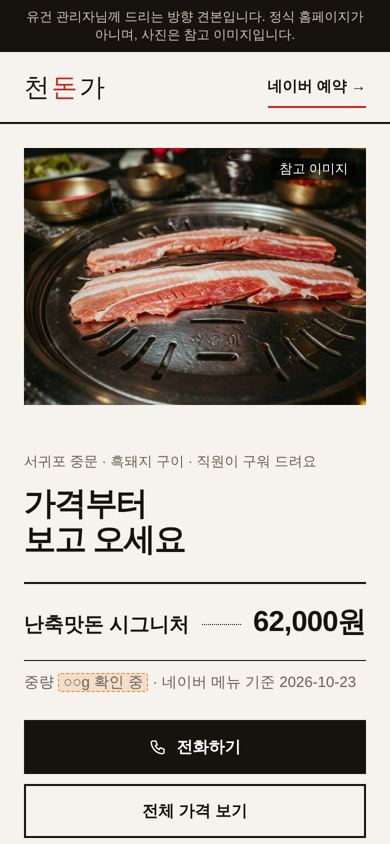
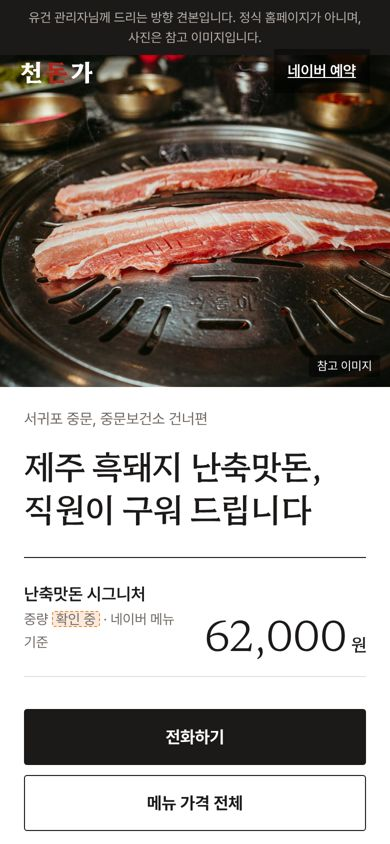
천돈가: 방향 견본 2차(세로 간판·고기와 가격·둘러앉는 한 상), 글꼴 스크린샷 규칙
Claude-Session: https://claude.ai/code/session_01VzijVx3yV9QaKviLbpT7oE

diff --git a/concepts/b/index.html b/concepts/b/index.html
@@ -1,51 +1,62 @@
 <!doctype html>
-<html lang="ko"><head><meta name="robots" content="noindex, nofollow"><meta charset="utf-8"><title>천돈가 · 견본 B 가격표가 첫 화면</title>
-<meta name="description" content="천돈가 홈페이지 방향 견본(첫 화면). 유건 관리자님께 드리는 예시.">
+<html lang="ko"><head><meta name="robots" content="noindex, nofollow"><meta charset="utf-8"><title>천돈가 · 견본 B 고기와 가격</title>
+<meta name="description" content="천돈가 홈페이지 방향 견본">
 
 <link rel="preconnect" href="https://fonts.googleapis.com"><link rel="preconnect" href="https://fonts.gstatic.com" crossorigin="">
-<link rel="stylesheet" href="https://fonts.googleapis.com/css2?family=Black+Han+Sans&amp;family=IBM+Plex+Sans+KR:wght@400;500;700&amp;display=swap">
-
-<!-- 견본 B (2026-10-23 오후): 가격표가 주인공 — 밝은 바탕, 큰 숫자, 사진은 정사각 한 장. 섹션: 전체 가격표. 핵심 과제(바가지 걱정·가격 공개)에 맞춤 -->
-<style>*{box-sizing:border-box}html{-webkit-text-size-adjust:100%}body{margin:0;word-break:keep-all;overflow-wrap:break-word;-webkit-font-smoothing:antialiased}img{display:block;max-width:100%;height:auto}a{color:inherit}h1,h2,h3,p{margin:0}
-.wrap{max-width:1200px;margin:0 auto;padding:0 24px}.demo{font-size:.8125rem;text-align:center;padding:8px 16px}
-.ref{position:absolute;right:10px;top:10px;z-index:3;font-size:.8125rem;color:#fff;background:rgba(0,0,0,.55);padding:2px 8px;border-radius:2px}
-.blank{display:inline-block;background:rgba(240,138,60,.2);outline:1.5px dashed #E8892F;outline-offset:-1px;padding:0 .35em;border-radius:3px}
-.btn{display:inline-flex;align-items:center;justify-content:center;gap:10px;min-height:54px;padding:0 26px;font-weight:700;text-decoration:none;font-size:1rem}
-.btn svg{width:18px;height:18px;fill:none;stroke:currentColor;stroke-width:1.8;stroke-linecap:round;stroke-linejoin:round}
-
-body{background:#F6F3EE;color:#16130F;font-family:"IBM Plex Sans KR",sans-serif}
-.demo{background:#16130F;color:#C9C1B5}
-.mark{font-family:"Black Han Sans";letter-spacing:.08em;font-size:1.6rem;text-decoration:none}.mark i{font-style:normal;color:#C42820}
-header .wrap{display:flex;justify-content:space-between;align-items:center;min-height:72px;border-bottom:2px solid #16130F}
-header a.bk{font-weight:700;font-size:.9375rem;text-decoration:none;border-bottom:2px solid #C42820;padding:10px 0}
-.hero .wrap{display:grid;grid-template-columns:1.1fr .9fr;gap:48px;padding-top:48px;padding-bottom:56px;align-items:center}
-.k{font-size:.875rem;font-weight:500;color:#6A6157}
-.hero h1{font-size:clamp(2rem,5vw,3.6rem);font-weight:700;letter-spacing:-.04em;line-height:1.15;margin:14px 0 24px}
-.price{display:flex;align-items:baseline;gap:12px;border-top:2px solid #16130F;border-bottom:1px solid #16130F;padding:18px 0}
-.price .n{font-size:1.25rem;font-weight:700}.price .d{flex:1;border-bottom:1px dotted #16130F;transform:translateY(-6px)}
-.price .p{font-size:clamp(1.8rem,4vw,2.6rem);font-weight:700;font-variant-numeric:tabular-nums;letter-spacing:-.02em}
-.sub{margin-top:12px;color:#6A6157;font-size:.9375rem}
-.btns{display:flex;flex-wrap:wrap;gap:10px;margin-top:28px}.b1{background:#16130F;color:#fff}.b2{border:2px solid #16130F}
-.tel{margin-top:12px;font-size:.9375rem}
-.hero figure{margin:0;position:relative}.hero figure img{aspect-ratio:1;object-fit:cover;width:100%}
-.sec{padding:72px 0 96px;background:#fff}.sec h2{font-size:clamp(1.5rem,3vw,2.2rem);letter-spacing:-.03em;margin:10px 0 28px}
-table{width:100%;border-collapse:collapse;font-size:1.0625rem}td{padding:16px 0;border-bottom:1px solid #DDD5CA}td.r{text-align:right;font-weight:700;font-variant-numeric:tabular-nums;white-space:nowrap}td small{display:block;color:#6A6157;font-size:.875rem}
-tr:first-child td{border-top:2px solid #16130F}
-.src{font-size:.8125rem;color:#6A6157;margin-top:14px}
-@media(max-width:760px){.hero .wrap{grid-template-columns:1fr;padding-top:24px}.hero figure{order:-1}.hero figure img{aspect-ratio:4/3}.btn{flex:1 1 100%}}
+<link rel="stylesheet" href="https://fonts.googleapis.com/css2?family=Hahmlet:wght@300;500;700&amp;display=swap">
+<link rel="stylesheet" href="https://cdn.jsdelivr.net/gh/orioncactus/pretendard@v1.3.9/dist/web/variable/pretendardvariable-dynamic-subset.min.css">
+<!-- 견본 B2 (2026-10-23 밤): 흰 바탕, 고기 사진이 반, Hahmlet(현대 명조) 큰 숫자로 가격. 크림·점선·화살표 없이. -->
+<style>*{box-sizing:border-box}html{-webkit-text-size-adjust:100%}body{margin:0;word-break:keep-all;overflow-wrap:break-word;-webkit-font-smoothing:antialiased;text-rendering:optimizeLegibility}
+img{display:block;max-width:100%;height:auto}a{color:inherit}h1,h2,h3,p,dl,dd{margin:0}
+.demo{font-size:.8125rem;line-height:1.5;text-align:center;padding:8px 16px}
+.ref{position:absolute;right:10px;bottom:10px;z-index:3;font-size:.75rem;line-height:1;color:#fff;background:rgba(0,0,0,.5);padding:5px 8px;border-radius:2px;font-family:"Pretendard Variable",Pretendard,sans-serif}
+.blank{background:rgba(240,138,60,.18);outline:1.5px dashed #E8892F;outline-offset:-1px;padding:0 .3em;border-radius:3px}
+:focus-visible{outline:2px solid currentColor;outline-offset:3px}
+:root{--ink:#1C1A19;--dim:#6F6863;--line:#E4E0DC;--red:#B4231B}
+body{background:#fff;color:var(--ink);font-family:"Pretendard Variable",Pretendard,sans-serif;font-size:17px;line-height:1.65}
+.demo{background:#1C1A19;color:#B9B2AB}
+.hero{display:grid;grid-template-columns:1.1fr 1fr;min-height:calc(100svh - 37px)}
+.photo{position:relative;overflow:hidden;background:#222}.photo img{position:absolute;inset:0;width:100%;height:100%;object-fit:cover}
+.txt{padding:40px clamp(28px,5vw,88px) 56px;display:flex;flex-direction:column}
+.bar{display:flex;justify-content:space-between;align-items:center}
+.logo{font-family:"Hahmlet",serif;font-weight:700;font-size:1.5rem;letter-spacing:.12em;text-decoration:none}.logo span{color:var(--red)}
+.bar a.b{font-weight:600;font-size:.9375rem;min-height:44px;display:inline-flex;align-items:center}
+.main{margin:auto 0}
+.where{font-size:.9375rem;color:var(--dim)}
+h1{font-family:"Hahmlet",serif;font-weight:500;font-size:clamp(2.1rem,3.6vw,3.3rem);line-height:1.28;letter-spacing:-.03em;margin:18px 0 44px}
+.price{display:grid;grid-template-columns:1fr auto;align-items:end;gap:4px 16px;padding:22px 0;border-top:1px solid var(--ink);border-bottom:1px solid var(--line)}
+.price .n{font-weight:600}.price .n small{display:block;font-weight:400;color:var(--dim);font-size:.875rem}
+.price .p{font-family:"Hahmlet",serif;font-weight:300;font-size:clamp(2.6rem,4.6vw,3.8rem);line-height:1;letter-spacing:-.02em;font-variant-numeric:lining-nums}
+.price .p em{font-style:normal;font-size:.42em;margin-left:4px;font-weight:500}
+.act{display:flex;flex-wrap:wrap;gap:10px;margin-top:32px}
+.act a{display:inline-flex;align-items:center;justify-content:center;min-height:56px;padding:0 28px;font-weight:700;text-decoration:none;border-radius:3px}
+.call{background:var(--ink);color:#fff}.see{border:1px solid var(--ink)}
+.num{margin-top:14px;font-size:.9375rem;color:var(--dim)}.num b{color:var(--ink);font-variant-numeric:tabular-nums}
+.menu{max-width:1080px;margin:0 auto;padding:112px clamp(24px,5vw,64px) 120px}
+.menu h2{font-family:"Hahmlet",serif;font-weight:500;font-size:clamp(1.6rem,2.8vw,2.3rem);letter-spacing:-.02em;margin-bottom:12px}
+.menu .lead{color:var(--dim);margin-bottom:48px}
+.menu dl{display:grid;grid-template-columns:1fr auto;border-top:1px solid var(--ink)}
+.menu dt,.menu dd{padding:26px 0;border-bottom:1px solid var(--line)}
+.menu dt{font-size:1.1875rem;font-weight:600}.menu dt small{display:block;font-size:.875rem;font-weight:400;color:var(--dim);margin-top:2px}
+.menu dd{font-family:"Hahmlet",serif;font-size:1.75rem;font-weight:300;text-align:right;font-variant-numeric:lining-nums;white-space:nowrap}
+.menu p.src{margin-top:20px;font-size:.875rem;color:var(--dim)}
+@media(max-width:820px){.hero{grid-template-columns:1fr;grid-template-rows:auto auto}.photo{aspect-ratio:4/3.4;order:2}.txt{order:1;padding:20px 24px 36px}.photo{order:0}
+ .bar{position:absolute;left:0;right:0;top:37px;padding:12px 20px;color:#fff;z-index:4}.bar a.b{background:rgba(0,0,0,.45);padding:0 14px}
+ .main{margin:0}h1{margin:12px 0 28px}.act a{flex:1 1 100%}.menu{padding:80px 24px}}
 </style>
 <meta name="viewport" content="width=device-width, initial-scale=1, viewport-fit=cover"></head><body><div class="demo" role="note">유건 관리자님께 드리는 방향 견본입니다. 정식 홈페이지가 아니며, 사진은 참고 이미지입니다.</div>
-<header><div class="wrap"><a class="mark" href="#">천<i>돈</i>가</a><a class="bk" href="https://naver.me/xDJuE5hg">네이버 예약 →</a></div></header>
-<section class="hero"><div class="wrap"><div><p class="k">서귀포 중문 · 흑돼지 구이 · 직원이 구워 드려요</p>
-<h1>가격부터<br>보고 오세요</h1>
-<div class="price"><span class="n">난축맛돈 시그니처</span><span class="d"></span><span class="p">62,000원</span></div>
-<p class="sub">중량 <span class="blank">○○g 확인 중</span> · 네이버 메뉴 기준 2026-10-23</p>
-<div class="btns"><a class="btn b1" href="tel:064-739-0775"><svg viewBox="0 0 24 24" aria-hidden="true"><path d="M5 4h4l2 5-2.5 1.5a11 11 0 0 0 5 5L15 13l5 2v4a2 2 0 0 1-2 2A16 16 0 0 1 3 6a2 2 0 0 1 2-2"></path></svg>전화하기</a><a class="btn b2" href="#menu">전체 가격 보기</a></div>
-<p class="tel">064-739-0775 · 천제연로 280 (중문보건소 건너편)</p></div>
-<figure><img src="img/c-b_hero.jpg" width="1400" height="1050" alt="불판 위 생 삼겹살 (참고 이미지)"><span class="ref">참고 이미지</span></figure></div></section>
-<section class="sec" id="menu"><div class="wrap"><p class="k">메뉴판</p><h2>숨기지 않는 가격</h2>
-<table><tbody><tr><td>난축맛돈 시그니처<small>제주토종흑돼지 · 중량 <span class="blank">확인 중</span></small></td><td class="r">62,000원</td></tr>
-<tr><td>제주흑돼지 YBD<small>500g</small></td><td class="r">55,000원</td></tr>
-<tr><td>솔지살<small>중량 <span class="blank">확인 중</span></small></td><td class="r">24,000원</td></tr></tbody></table>
-<p class="src">네이버 플레이스 메뉴 · 2026-10-23 확인 · <a href="https://naver.me/xDJuE5hg">전체 메뉴</a></p></div></section>
+<section class="hero">
+<div class="photo"><img src="img/c-b_hero.jpg" width="1400" height="1050" alt="불판 위 생 삼겹살 (참고 이미지)"><span class="ref">참고 이미지</span></div>
+<div class="txt"><div class="bar"><a class="logo" href="#">천<span>돈</span>가</a><a class="b" href="https://naver.me/xDJuE5hg">네이버 예약</a></div>
+<div class="main"><p class="where">서귀포 중문, 중문보건소 건너편</p>
+<h1>제주 흑돼지 난축맛돈,<br>직원이 구워 드립니다</h1>
+<div class="price"><span class="n">난축맛돈 시그니처<small>중량 <span class="blank">확인 중</span> · 네이버 메뉴 기준</small></span><span class="p">62,000<em>원</em></span></div>
+<div class="act"><a class="call" href="tel:064-739-0775">전화하기</a><a class="see" href="#menu">메뉴 가격 전체</a></div>
+<p class="num">전화 <b>064-739-0775</b></p></div></div>
+</section>
+<section class="menu" id="menu"><h2>메뉴 가격</h2><p class="lead">가게에서 내는 가격 그대로 적었습니다.</p>
+<dl><dt>난축맛돈 시그니처<small>제주토종흑돼지 · 중량 <span class="blank">확인 중</span></small></dt><dd>62,000원</dd>
+<dt>제주흑돼지 YBD<small>500g</small></dt><dd>55,000원</dd>
+<dt>솔지살<small>중량 <span class="blank">확인 중</span></small></dt><dd>24,000원</dd></dl>
+<p class="src">네이버 플레이스 메뉴, 2026년 10월 23일 확인. <a href="https://naver.me/xDJuE5hg">전체 메뉴 보기</a></p></section>
 </body></html>

diff --git a/concepts/a/index.html b/concepts/a/index.html
@@ -1,51 +1,60 @@
 <!doctype html>
-<html lang="ko"><head><meta name="robots" content="noindex, nofollow"><meta charset="utf-8"><title>천돈가 · 견본 A 밤의 간판</title>
-<meta name="description" content="천돈가 홈페이지 방향 견본(첫 화면). 유건 관리자님께 드리는 예시.">
+<html lang="ko"><head><meta name="robots" content="noindex, nofollow"><meta charset="utf-8"><title>천돈가 · 견본 A 세로 간판</title>
+<meta name="description" content="천돈가 홈페이지 방향 견본">
 
 <link rel="preconnect" href="https://fonts.googleapis.com"><link rel="preconnect" href="https://fonts.gstatic.com" crossorigin="">
-<link rel="stylesheet" href="https://fonts.googleapis.com/css2?family=Black+Han+Sans&amp;display=swap"><link rel="stylesheet" href="https://cdn.jsdelivr.net/gh/orioncactus/pretendard@v1.3.9/dist/web/variable/pretendardvariable-dynamic-subset.min.css">
-
-<!-- 견본 A (2026-10-23 오후): 간판 그대로 — 검정·흰·빨간 "돈", 불 사진. 섹션: 손님이 고른 말 -->
-<style>*{box-sizing:border-box}html{-webkit-text-size-adjust:100%}body{margin:0;word-break:keep-all;overflow-wrap:break-word;-webkit-font-smoothing:antialiased}img{display:block;max-width:100%;height:auto}a{color:inherit}h1,h2,h3,p{margin:0}
-.wrap{max-width:1200px;margin:0 auto;padding:0 24px}.demo{font-size:.8125rem;text-align:center;padding:8px 16px}
-.ref{position:absolute;right:10px;top:10px;z-index:3;font-size:.8125rem;color:#fff;background:rgba(0,0,0,.55);padding:2px 8px;border-radius:2px}
-.blank{display:inline-block;background:rgba(240,138,60,.2);outline:1.5px dashed #E8892F;outline-offset:-1px;padding:0 .35em;border-radius:3px}
-.btn{display:inline-flex;align-items:center;justify-content:center;gap:10px;min-height:54px;padding:0 26px;font-weight:700;text-decoration:none;font-size:1rem}
-.btn svg{width:18px;height:18px;fill:none;stroke:currentColor;stroke-width:1.8;stroke-linecap:round;stroke-linejoin:round}
-
-body{background:#0B0908;color:#F4EFE8;font-family:"Pretendard Variable",Pretendard,sans-serif}
-.demo{background:#000;color:#9A9087}
-.mark{font-family:"Black Han Sans";letter-spacing:.08em;font-size:1.6rem;text-decoration:none}.mark i{font-style:normal;color:#E3342B}
-header{position:absolute;left:0;right:0;z-index:4}header .wrap{display:flex;justify-content:space-between;align-items:center;min-height:72px}
-header a.bk{border:1px solid rgba(255,255,255,.5);padding:10px 16px;font-size:.9375rem;font-weight:600;text-decoration:none}
-.hero{position:relative;min-height:100svh;display:flex;align-items:flex-end;overflow:hidden}
-.hero img{position:absolute;inset:0;width:100%;height:100%;object-fit:cover}
-.hero::after{content:"";position:absolute;inset:0;background:linear-gradient(180deg,rgba(11,9,8,.6),rgba(11,9,8,0) 25%,rgba(11,9,8,.2) 55%,#0B0908 96%)}
-.hero .wrap{position:relative;z-index:2;padding-bottom:64px;width:100%}
-.sign{display:inline-block;border:2px solid #F4EFE8;padding:10px 18px 6px;font-family:"Black Han Sans";font-size:clamp(2.6rem,9vw,5rem);letter-spacing:.12em;line-height:1}
-.sign i{font-style:normal;color:#E3342B}
-.hero h1{font-size:clamp(1.6rem,4vw,2.6rem);font-weight:700;letter-spacing:-.03em;margin:22px 0 10px;line-height:1.3}
-.hero p{color:#CFC6BB}
-.btns{display:flex;flex-wrap:wrap;gap:10px;margin-top:28px}.b1{background:#C42820;color:#fff}.b2{border:1px solid rgba(255,255,255,.5);color:#fff}
-.tel{margin-top:14px;font-size:.9375rem;color:#CFC6BB}.tel b{color:#fff}
-.sec{padding:88px 0}.sec h2{font-size:clamp(1.6rem,3.4vw,2.4rem);letter-spacing:-.03em;margin:12px 0 32px}
-.k{font-size:.8125rem;color:#E9A65B;font-weight:600;letter-spacing:.06em}
-.grid{display:grid;grid-template-columns:1.1fr 1fr;gap:48px;align-items:center}
-.grid figure{margin:0;position:relative}.grid figure img{aspect-ratio:4/3;object-fit:cover;width:100%}
-ul.bars{list-style:none;margin:0;padding:0}ul.bars li{display:flex;justify-content:space-between;align-items:baseline;padding:16px 0;border-bottom:1px solid rgba(244,239,232,.14);font-size:1.125rem;font-weight:600}
-ul.bars b{font-size:1.5rem;color:#E9A65B;font-variant-numeric:tabular-nums}
-.src{font-size:.8125rem;color:#9A9087;margin-top:14px}
-@media(max-width:760px){.grid{grid-template-columns:1fr}.hero{min-height:92svh}.btn{flex:1 1 100%}}
+<link rel="stylesheet" href="https://fonts.googleapis.com/css2?family=Black+Han+Sans&amp;display=swap">
+<link rel="stylesheet" href="https://cdn.jsdelivr.net/gh/orioncactus/pretendard@v1.3.9/dist/web/variable/pretendardvariable-dynamic-subset.min.css">
+<!-- 견본 A2 (2026-10-23 밤, "글씨·배치가 싸 보임" 반영): 세로 간판을 그대로 레이아웃으로. Black Han Sans(간판 글씨) + Pretendard. 빨강은 실제 간판의 "돈" 한 글자만. -->
+<style>*{box-sizing:border-box}html{-webkit-text-size-adjust:100%}body{margin:0;word-break:keep-all;overflow-wrap:break-word;-webkit-font-smoothing:antialiased;text-rendering:optimizeLegibility}
+img{display:block;max-width:100%;height:auto}a{color:inherit}h1,h2,h3,p,dl,dd{margin:0}
+.demo{font-size:.8125rem;line-height:1.5;text-align:center;padding:8px 16px}
+.ref{position:absolute;right:10px;bottom:10px;z-index:3;font-size:.75rem;line-height:1;color:#fff;background:rgba(0,0,0,.5);padding:5px 8px;border-radius:2px;font-family:"Pretendard Variable",Pretendard,sans-serif}
+.blank{background:rgba(240,138,60,.18);outline:1.5px dashed #E8892F;outline-offset:-1px;padding:0 .3em;border-radius:3px}
+:focus-visible{outline:2px solid currentColor;outline-offset:3px}
+:root{--ink:#F7F3EC;--dim:#B9AFA3;--bg:#000;--red:#E0261C}
+body{background:var(--bg);color:var(--ink);font-family:"Pretendard Variable",Pretendard,sans-serif;font-size:17px;line-height:1.65}
+.demo{color:#8C8379;border-bottom:1px solid #1E1B19}
+.hero{display:grid;grid-template-columns:auto 1.25fr 1fr;min-height:calc(100svh - 37px)}
+.sign{writing-mode:vertical-rl;text-orientation:upright;font-family:"Black Han Sans",sans-serif;font-size:clamp(5rem,13vh,9.5rem);line-height:1;letter-spacing:.06em;padding:40px clamp(20px,3vw,48px);border-right:1px solid #2A2522;display:flex;align-items:center;justify-content:center;margin:0}
+.sign span{color:var(--red)}
+.photo{position:relative;overflow:hidden}.photo img{position:absolute;inset:0;width:100%;height:100%;object-fit:cover;object-position:40% 50%}
+.txt{display:flex;flex-direction:column;justify-content:space-between;padding:40px clamp(24px,4vw,64px)}
+.top{display:flex;justify-content:flex-end;gap:24px;font-size:.9375rem;font-weight:600}.top a{text-decoration:none;min-height:44px;display:inline-flex;align-items:center}
+.txt h1{font-size:clamp(1.9rem,3.2vw,3rem);font-weight:700;letter-spacing:-.04em;line-height:1.22}
+.txt .who{margin-top:20px;color:var(--dim);max-width:22em}
+.act{margin-top:36px;display:grid;gap:10px;max-width:340px}
+.act a{display:flex;justify-content:space-between;align-items:center;min-height:58px;padding:0 20px;text-decoration:none;font-weight:700;font-size:1.0625rem}
+.call{background:var(--ink);color:#000}.call small{font-weight:600;font-variant-numeric:tabular-nums;font-size:1rem}
+.book{border:1px solid #4A433E}
+.addr{margin-top:24px;font-size:.9375rem;color:var(--dim)}
+.voice{padding:120px clamp(24px,6vw,96px);max-width:1280px;margin:0 auto}
+.voice h2{font-size:1rem;font-weight:600;color:var(--dim);margin-bottom:40px}
+.voice ol{list-style:none;margin:0;padding:0}
+.voice li{display:flex;align-items:baseline;justify-content:space-between;gap:24px;padding:18px 0;border-top:1px solid #2A2522}
+.voice q{quotes:none;font-size:clamp(1.6rem,4.4vw,3.4rem);font-weight:700;letter-spacing:-.045em;line-height:1.2}
+.voice li:nth-child(n+3) q{color:#D8D0C6}.voice li:nth-child(n+4) q{color:#A69C91}
+.voice b{font-size:1rem;font-weight:600;color:var(--dim);font-variant-numeric:tabular-nums;white-space:nowrap}
+.voice p{margin-top:28px;font-size:.875rem;color:#8C8379}
+@media(max-width:820px){
+ .hero{grid-template-columns:auto 1fr;grid-template-rows:62svh auto}
+ .sign{font-size:clamp(3.6rem,17vw,5.4rem);grid-row:1;padding:24px 14px}
+ .photo{grid-row:1;grid-column:2}
+ .txt{grid-column:1/-1;padding:32px 24px 48px}.top{position:absolute;top:44px;right:16px;z-index:4}.top a{background:rgba(0,0,0,.55);padding:0 14px}
+ .act{max-width:none}.voice{padding:80px 24px}.voice li{flex-direction:column;gap:4px}
+}
 </style>
 <meta name="viewport" content="width=device-width, initial-scale=1, viewport-fit=cover"></head><body><div class="demo" role="note">유건 관리자님께 드리는 방향 견본입니다. 정식 홈페이지가 아니며, 사진은 참고 이미지입니다.</div>
-<header><div class="wrap"><a class="mark" href="#">천<i>돈</i>가</a><a class="bk" href="https://naver.me/xDJuE5hg">네이버 예약</a></div></header>
-<section class="hero"><img src="img/v5-hero.jpg" width="1600" height="978" alt="불꽃 위 석쇠의 고기 (참고 이미지)"><span class="ref" style="top:84px">참고 이미지</span>
-<div class="wrap"><span class="sign">천<i>돈</i>가</span>
-<h1>좋은 고기는<br>좋은 사람들과 함께</h1><p>서귀포 중문 · 난축맛돈 흑돼지 · 직원이 구워 드려요</p>
-<div class="btns"><a class="btn b1" href="tel:064-739-0775"><svg viewBox="0 0 24 24" aria-hidden="true"><path d="M5 4h4l2 5-2.5 1.5a11 11 0 0 0 5 5L15 13l5 2v4a2 2 0 0 1-2 2A16 16 0 0 1 3 6a2 2 0 0 1 2-2"></path></svg>전화하기</a><a class="btn b2" href="https://naver.me/xDJuE5hg">네이버 예약</a></div>
-<p class="tel">전화 <b>064-739-0775</b> · 천제연로 280</p></div></section>
-<section class="sec"><div class="wrap grid"><div><p class="k">손님이 고른 말</p><h2>다녀간 손님 8,428명의 리뷰</h2>
-<ul class="bars"><li>음식이 맛있어요<b>2,580</b></li><li>고기 질이 좋아요<b>1,775</b></li><li>친절해요<b>1,370</b></li><li>직접 잘 구워줘요<b>925</b></li></ul>
-<p class="src">네이버 플레이스 방문자 리뷰 · 2026-10-23 기준 · <a href="https://naver.me/xDJuE5hg">원문 보기</a></p></div>
-<figure><img src="img/c-a_sec.jpg" width="1000" height="750" alt="불판 위 삼겹살과 반찬 (참고 이미지)" loading="lazy"><span class="ref">참고 이미지</span></figure></div></section>
+<section class="hero" aria-label="천돈가">
+<h1 class="sign" aria-label="천돈가">천<span>돈</span>가</h1>
+<div class="photo"><img src="img/v5-hero.jpg" width="1600" height="978" alt="불 위 석쇠에서 익는 고기 (참고 이미지)"><span class="ref">참고 이미지</span></div>
+<div class="txt"><nav class="top" aria-label="바로가기"><a href="#voice">손님 리뷰</a><a href="https://naver.me/xDJuE5hg">예약</a></nav>
+<div><h2 style="font-size:clamp(1.9rem,3.2vw,3rem);font-weight:700;letter-spacing:-.04em;line-height:1.22">좋은 고기는<br>좋은 사람들과 함께</h2>
+<p class="who">서귀포 중문의 흑돼지 구이집. 난축맛돈을 직원이 구워 드립니다.</p>
+<div class="act"><a class="call" href="tel:064-739-0775">전화 <small>064-739-0775</small></a><a class="book" href="https://naver.me/xDJuE5hg">네이버 예약</a></div>
+<p class="addr">천제연로 280, 1층 (중문보건소 건너편)</p></div></div>
+</section>
+<section class="voice" id="voice"><h2>네이버 방문자 8,428명이 가장 많이 고른 말</h2>
+<ol><li><q>음식이 맛있어요</q><b>2,580명</b></li><li><q>고기 질이 좋아요</q><b>1,775명</b></li><li><q>친절해요</q><b>1,370명</b></li><li><q>직접 잘 구워줘요</q><b>925명</b></li></ol>
+<p>2026년 10월 23일 기준 · <a href="https://naver.me/xDJuE5hg">리뷰 원문 보기</a></p></section>
 </body></html>

diff --git a/concepts/c/index.html b/concepts/c/index.html
@@ -1,47 +1,48 @@
 <!doctype html>
-<html lang="ko"><head><meta name="robots" content="noindex, nofollow"><meta charset="utf-8"><title>천돈가 · 견본 C 중문 여행 한 끼</title>
-<meta name="description" content="천돈가 홈페이지 방향 견본(첫 화면). 유건 관리자님께 드리는 예시.">
+<html lang="ko"><head><meta name="robots" content="noindex, nofollow"><meta charset="utf-8"><title>천돈가 · 견본 C 둘러앉는 한 상</title>
+<meta name="description" content="천돈가 홈페이지 방향 견본">
 
 <link rel="preconnect" href="https://fonts.googleapis.com"><link rel="preconnect" href="https://fonts.gstatic.com" crossorigin="">
-<link rel="stylesheet" href="https://cdn.jsdelivr.net/gh/orioncactus/pretendard@v1.3.9/dist/web/variable/pretendardvariable-dynamic-subset.min.css"><link rel="stylesheet" href="https://fonts.googleapis.com/css2?family=Gowun+Batang:wght@700&amp;display=swap">
-
-<!-- 견본 C (2026-10-23 오후): 여행 계획 손님용 — 제주 바다·돌 색(현무암 회색, 바다 청록), 사진 위 / 글 아래. 섹션: 가기 전에 저장할 것 -->
-<style>*{box-sizing:border-box}html{-webkit-text-size-adjust:100%}body{margin:0;word-break:keep-all;overflow-wrap:break-word;-webkit-font-smoothing:antialiased}img{display:block;max-width:100%;height:auto}a{color:inherit}h1,h2,h3,p{margin:0}
-.wrap{max-width:1200px;margin:0 auto;padding:0 24px}.demo{font-size:.8125rem;text-align:center;padding:8px 16px}
-.ref{position:absolute;right:10px;top:10px;z-index:3;font-size:.8125rem;color:#fff;background:rgba(0,0,0,.55);padding:2px 8px;border-radius:2px}
-.blank{display:inline-block;background:rgba(240,138,60,.2);outline:1.5px dashed #E8892F;outline-offset:-1px;padding:0 .35em;border-radius:3px}
-.btn{display:inline-flex;align-items:center;justify-content:center;gap:10px;min-height:54px;padding:0 26px;font-weight:700;text-decoration:none;font-size:1rem}
-.btn svg{width:18px;height:18px;fill:none;stroke:currentColor;stroke-width:1.8;stroke-linecap:round;stroke-linejoin:round}
-
-body{background:#EEEDE9;color:#1F2221;font-family:"Pretendard Variable",Pretendard,sans-serif}
-.demo{background:#2B2E2D;color:#BFC4C1}
-.top{display:flex;justify-content:space-between;align-items:center;min-height:64px}
-.mark{font-family:"Gowun Batang";font-size:1.5rem;text-decoration:none;letter-spacing:.04em}.mark i{font-style:normal;color:#C42820}
-.top a.bk{font-weight:600;font-size:.9375rem;text-decoration:none;color:#2F6F6B}
-.ph{position:relative;margin:0 24px;border-radius:14px;overflow:hidden}.ph img{width:100%;aspect-ratio:16/8;object-fit:cover}
-.hero .wrap{padding-top:36px;padding-bottom:56px;display:grid;grid-template-columns:1.2fr 1fr;gap:40px;align-items:end}
-.k{font-size:.875rem;color:#2F6F6B;font-weight:600}
-.hero h1{font-family:"Gowun Batang";font-size:clamp(2rem,4.6vw,3.4rem);line-height:1.25;margin:12px 0 0;letter-spacing:-.02em}
-.hero p.d{color:#4A4F4D;font-size:1.0625rem}
-.btns{display:flex;flex-wrap:wrap;gap:10px;margin-top:20px}.b1{background:#2F6F6B;color:#fff;border-radius:999px}.b2{background:#fff;border-radius:999px;color:#1F2221}
-.tel{margin-top:12px;font-size:.9375rem;color:#4A4F4D}
-.sec{padding:24px 0 96px}.cards{display:grid;grid-template-columns:repeat(3,1fr);gap:16px}
-.card{background:#fff;border-radius:14px;padding:24px;display:grid;gap:10px;align-content:start}
-.card h3{font-size:1.125rem}.card p{color:#4A4F4D;font-size:.9375rem}.card a{color:#2F6F6B;font-weight:600;text-decoration:none;min-height:44px;display:inline-flex;align-items:center}
-.card .n{font-family:"Gowun Batang";font-size:1.75rem;color:#2F6F6B}
-.card figure{margin:-24px -24px 6px;position:relative}.card figure img{border-radius:14px 14px 0 0;aspect-ratio:16/9;object-fit:cover;width:100%}
-@media(max-width:760px){.hero .wrap{grid-template-columns:1fr;gap:16px}.ph{margin:0 16px}.ph img{aspect-ratio:4/3}.cards{grid-template-columns:1fr}.btn{flex:1 1 100%}}
+<link rel="stylesheet" href="https://fonts.googleapis.com/css2?family=Black+Han+Sans&amp;display=swap">
+<link rel="stylesheet" href="https://cdn.jsdelivr.net/gh/orioncactus/pretendard@v1.3.9/dist/web/variable/pretendardvariable-dynamic-subset.min.css">
+<!-- 견본 C2 (2026-10-23 밤): 위에서 내려다본 한 상 사진을 꽉 채우고, 아래에 흰 판을 겹쳐 글. 현무암 회색 + 귤빛 하나. 여행 손님이 알아야 할 것을 표로. -->
+<style>*{box-sizing:border-box}html{-webkit-text-size-adjust:100%}body{margin:0;word-break:keep-all;overflow-wrap:break-word;-webkit-font-smoothing:antialiased;text-rendering:optimizeLegibility}
+img{display:block;max-width:100%;height:auto}a{color:inherit}h1,h2,h3,p,dl,dd{margin:0}
+.demo{font-size:.8125rem;line-height:1.5;text-align:center;padding:8px 16px}
+.ref{position:absolute;right:10px;bottom:10px;z-index:3;font-size:.75rem;line-height:1;color:#fff;background:rgba(0,0,0,.5);padding:5px 8px;border-radius:2px;font-family:"Pretendard Variable",Pretendard,sans-serif}
+.blank{background:rgba(240,138,60,.18);outline:1.5px dashed #E8892F;outline-offset:-1px;padding:0 .3em;border-radius:3px}
+:focus-visible{outline:2px solid currentColor;outline-offset:3px}
+:root{--ink:#232523;--dim:#676B67;--stone:#E7E6E2;--tang:#E8742A;--red:#D2261C}
+body{background:var(--stone);color:var(--ink);font-family:"Pretendard Variable",Pretendard,sans-serif;font-size:17px;line-height:1.65}
+.demo{background:#232523;color:#B3B6B2}
+.hero{position:relative}
+.photo{position:relative;height:72svh;min-height:420px;overflow:hidden}.photo img{width:100%;height:100%;object-fit:cover}
+.photo .ref{bottom:auto;top:64px}
+.bar{position:absolute;top:0;left:0;right:0;display:flex;justify-content:space-between;align-items:center;padding:14px clamp(20px,4vw,56px);z-index:3;color:#fff}
+.logo{font-family:"Black Han Sans";font-size:1.6rem;letter-spacing:.1em;text-decoration:none;text-shadow:0 1px 10px rgba(0,0,0,.4)}.logo span{color:#FF4A3D}
+.bar a.b{font-weight:700;font-size:.9375rem;background:#fff;color:var(--ink);padding:0 16px;min-height:44px;display:inline-flex;align-items:center;border-radius:3px}
+.panel{position:relative;margin:-120px auto 0;max-width:1080px;background:#fff;padding:48px clamp(24px,5vw,64px) 52px;display:grid;grid-template-columns:1.2fr 1fr;gap:40px;z-index:2}
+h1{font-size:clamp(2rem,4vw,3.2rem);font-weight:800;letter-spacing:-.05em;line-height:1.18}
+.panel p{color:var(--dim)}
+.act{display:grid;gap:10px;margin-top:22px}
+.act a{display:flex;justify-content:center;align-items:center;min-height:56px;font-weight:700;text-decoration:none;border-radius:3px}
+.book{background:var(--tang);color:#1E1208}.call{border:1.5px solid var(--ink)}
+.plan{max-width:1080px;margin:0 auto;padding:96px clamp(24px,5vw,64px) 120px}
+.plan h2{font-size:clamp(1.5rem,2.6vw,2rem);font-weight:800;letter-spacing:-.04em;margin-bottom:28px}
+.plan dl{display:grid;grid-template-columns:9em 1fr;border-top:2px solid var(--ink)}
+.plan dt,.plan dd{padding:20px 0;border-bottom:1px solid #CFCDC7}
+.plan dt{font-weight:700}.plan dd a{font-weight:600;text-underline-offset:3px}
+@media(max-width:820px){.photo{height:58svh}.panel{grid-template-columns:1fr;margin:-64px 12px 0;padding:32px 22px 36px;gap:16px}.plan{padding:72px 24px}.plan dl{grid-template-columns:1fr}.plan dt{border-bottom:0;padding-bottom:0}.plan dd{padding-top:4px}}
 </style>
 <meta name="viewport" content="width=device-width, initial-scale=1, viewport-fit=cover"></head><body><div class="demo" role="note">유건 관리자님께 드리는 방향 견본입니다. 정식 홈페이지가 아니며, 사진은 참고 이미지입니다.</div>
-<div class="wrap top"><a class="mark" href="#">천<i>돈</i>가</a><a class="bk" href="https://map.naver.com/p/search/%EC%B2%9C%EB%8F%88%EA%B0%80%20%EC%A4%91%EB%AC%B8%ED%9D%91%EB%8F%BC%EC%A7%80">지도에 저장 ↗</a></div>
-<div class="ph"><img src="img/c-c_hero.jpg" width="1600" height="1000" alt="제주 바다 풍경 (참고 이미지, 매장에서 보이는 풍경 아님)"><span class="ref">참고 이미지 · 매장 풍경 아님</span></div>
-<section class="hero"><div class="wrap"><div><p class="k">제주 서귀포 중문 · 흑돼지 구이</p><h1>중문에서 먹는<br>제주 흑돼지 한 끼</h1></div>
-<div><p class="d">난축맛돈을 직원이 구워 드려요. 지도에 먼저 저장해 두고, 2~8명은 네이버로 예약하세요.</p>
-<div class="btns"><a class="btn b1" href="https://naver.me/xDJuE5hg">네이버 예약</a><a class="btn b2" href="tel:064-739-0775"><svg viewBox="0 0 24 24" aria-hidden="true"><path d="M5 4h4l2 5-2.5 1.5a11 11 0 0 0 5 5L15 13l5 2v4a2 2 0 0 1-2 2A16 16 0 0 1 3 6a2 2 0 0 1 2-2"></path></svg>전화</a></div>
-<p class="tel">064-739-0775 · 천제연로 280, 1층</p></div></div></section>
-<section class="sec"><div class="wrap cards">
-<div class="card"><span class="n">01</span><h3>지도에 저장</h3><p>옛 주소(일주서로 873)가 아니라 지금 주소로 찾아 주세요.</p><a href="https://map.naver.com/p/search/%EC%B2%9C%EB%8F%88%EA%B0%80%20%EC%A4%91%EB%AC%B8%ED%9D%91%EB%8F%BC%EC%A7%80">네이버 지도 ↗</a></div>
-<div class="card"><span class="n">02</span><h3>가격 미리 보기</h3><p>난축맛돈 시그니처 62,000원 · YBD 500g 55,000원 (네이버 메뉴 기준)</p><a href="https://naver.me/xDJuE5hg">메뉴 전체 ↗</a></div>
-<div class="card"><figure><img src="img/c-c_sec.jpg" width="1000" height="750" alt="석쇠에서 고기를 굽는 모습 (참고 이미지)" loading="lazy"><span class="ref">참고 이미지</span></figure><h3>자리에 앉으면</h3><p>고기는 직원이 구워 드려요. 유아의자·단체석이 있어요.</p></div>
-</div></section>
+<section class="hero"><div class="photo"><img src="img/c-a_sec.jpg" width="1000" height="750" alt="불판 위 삼겹살과 여러 반찬이 차려진 상 (참고 이미지)"><span class="ref">참고 이미지</span>
+<div class="bar"><a class="logo" href="#">천<span>돈</span>가</a><a class="b" href="https://naver.me/xDJuE5hg">네이버 예약</a></div></div>
+<div class="panel"><h1>여럿이 둘러앉는<br>제주 흑돼지 한 상</h1>
+<div><p>서귀포 중문, 넓은 매장에 단체석이 있습니다. 난축맛돈을 직원이 구워 드립니다.</p>
+<div class="act"><a class="book" href="https://naver.me/xDJuE5hg">네이버 예약 (2~8명)</a><a class="call" href="tel:064-739-0775">전화 064-739-0775</a></div></div></div></section>
+<section class="plan"><h2>가기 전에 알아 두면 좋은 것</h2>
+<dl><dt>주소</dt><dd>서귀포시 천제연로 280, 1층. 중문보건소 건너편. 예전 주소 일주서로 873에서 옮겼습니다. <a href="https://map.naver.com/p/search/%EC%B2%9C%EB%8F%88%EA%B0%80%20%EC%A4%91%EB%AC%B8%ED%9D%91%EB%8F%BC%EC%A7%80">네이버 지도에서 열기</a></dd>
+<dt>가격</dt><dd>난축맛돈 시그니처 62,000원, 제주흑돼지 YBD 500g 55,000원 (네이버 메뉴, 2026-10-23)</dd>
+<dt>아이와 함께</dt><dd>유아의자가 있습니다.</dd>
+<dt>영업</dt><dd>11:30부터. 마감 시간 <span class="blank">확인 중</span></dd></dl></section>
 </body></html>

diff --git a/concepts/index.html b/concepts/index.html
@@ -13,12 +13,12 @@
 .why{margin-top:28px;background:#fff;border-radius:16px;padding:20px 22px}.why h2{font-size:1.125rem;margin:0 0 10px}.why li{margin:6px 0}
 .note{margin-top:16px;font-size:.875rem}
 @media(max-width:760px){.g{grid-template-columns:1fr}}</style>
-<meta name="viewport" content="width=device-width, initial-scale=1, viewport-fit=cover"></head><body><div class="wrap"><h1>천돈가 방향 견본 3개</h1><p>휴대폰 첫 화면 그대로예요. 눌러서 직접 보시고 하나 골라 주세요. 사진은 모두 참고 이미지예요.</p>
-<div class="g"><a class="c" href="a/"><img src="img/concept-a-m.jpg" width="390" height="844" alt="견본 A 휴대폰 첫 화면"><b>A. 밤의 간판</b><span>간판 그대로 검정·흰·빨간 "돈"과 불 사진. 분위기는 가장 강하고, v6와 같은 계열이에요.</span><em>눌러서 보기 →</em></a><a class="c rec" href="b/"><img src="img/concept-b-m.jpg" width="390" height="844" alt="견본 B 휴대폰 첫 화면"><b>B. 가격표가 첫 화면 · 추천</b><span>밝은 바탕에 시그니처 가격을 맨 위에. 처음 오는 관광객의 "바가지 아닐까" 걱정을 먼저 풀어요.</span><em>눌러서 보기 →</em></a><a class="c" href="c/"><img src="img/concept-c-m.jpg" width="390" height="844" alt="견본 C 휴대폰 첫 화면"><b>C. 중문 여행 한 끼</b><span>제주 바다·돌 색과 "지도에 저장·가격·자리" 카드. 여행 계획 손님용이에요.</span><em>눌러서 보기 →</em></a></div>
-<div class="why"><h2>추천: B. 가격표가 첫 화면</h2><ul>
+<meta name="viewport" content="width=device-width, initial-scale=1, viewport-fit=cover"></head><body><div class="wrap"><h1>천돈가 방향 견본 3개</h1><p>"글씨·배치가 싸 보인다"고 하셔서 새로 만들었어요. 휴대폰 첫 화면 그대로예요. 눌러서 직접 보시고 하나 골라 주세요. 사진은 모두 참고 이미지예요.</p>
+<div class="g"><a class="c" href="a/"><img src="img/concept-a-m.jpg" width="390" height="844" alt="견본 A 휴대폰 첫 화면"><b>A. 세로 간판</b><span>실제 간판처럼 "천돈가"를 세로로 크게. 간판 문구가 제목이고, 손님 리뷰를 큰 글씨로 보여 줘요.</span><em>눌러서 보기 →</em></a><a class="c rec" href="b/"><img src="img/concept-b-m.jpg" width="390" height="844" alt="견본 B 휴대폰 첫 화면"><b>B. 고기와 가격 · 추천</b><span>흰 바탕, 고기 사진이 화면 반. 명조 숫자로 시그니처 가격을 크게 보여 "바가지 걱정"을 먼저 풀어요.</span><em>눌러서 보기 →</em></a><a class="c" href="c/"><img src="img/concept-c-m.jpg" width="390" height="844" alt="견본 C 휴대폰 첫 화면"><b>C. 둘러앉는 한 상</b><span>위에서 내려다본 한 상 사진에 흰 판을 겹쳐 글. 가족·단체 손님용, 가기 전에 알 것을 표로.</span><em>눌러서 보기 →</em></a></div>
+<div class="why"><h2>추천: B. 고기와 가격</h2><ul>
 <li>진단에서 근처 4곳은 무게·가격을 공개하는데, 천돈가 시그니처만 무게가 없었어요.</li>
 <li>제주 식당에 실망한 이유 1위가 가격(61.4%, 제주관광공사 F&amp;B 보고서)이에요. 처음 오는 관광객이 제일 먼저 묻는 걸 첫 화면에서 답해요.</li>
-<li>빌릴 것 두 가지: A의 간판 빨간 "돈"과 간판 문구, C의 "지도에 저장" 링크.</li>
+<li>빌릴 것 두 가지: A의 간판 문구 "좋은 고기는 좋은 사람들과 함께", C의 "가기 전에 알아 두면 좋은 것" 표.</li>
 <li>약점: 시그니처 무게를 받아야 완성돼요.</li></ul></div>
 <p class="note">유건 관리자님께 드리는 견본입니다. 정식 홈페이지가 아닙니다. · 2026-10-23</p></div>
 </body></html>
